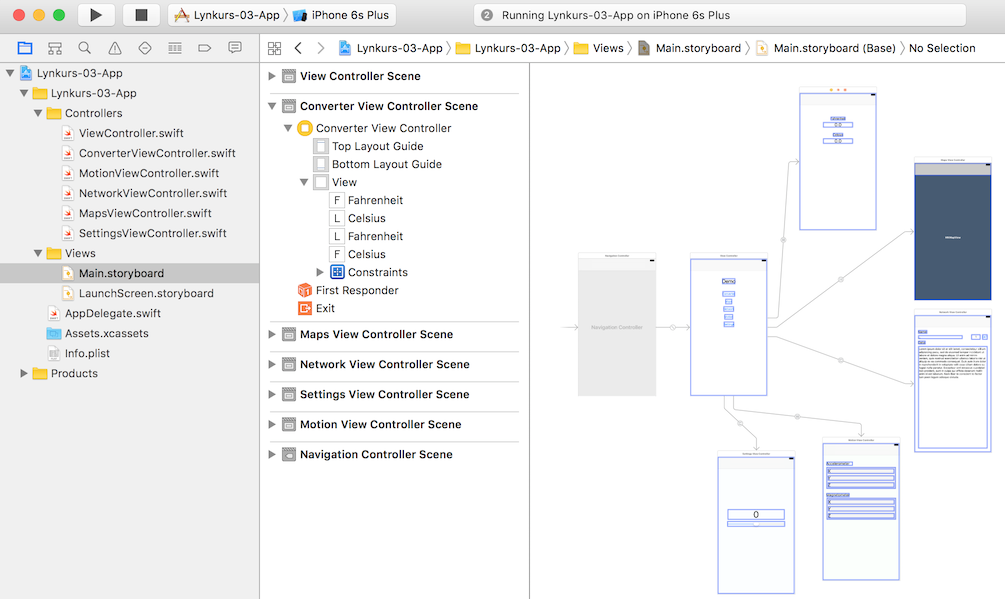
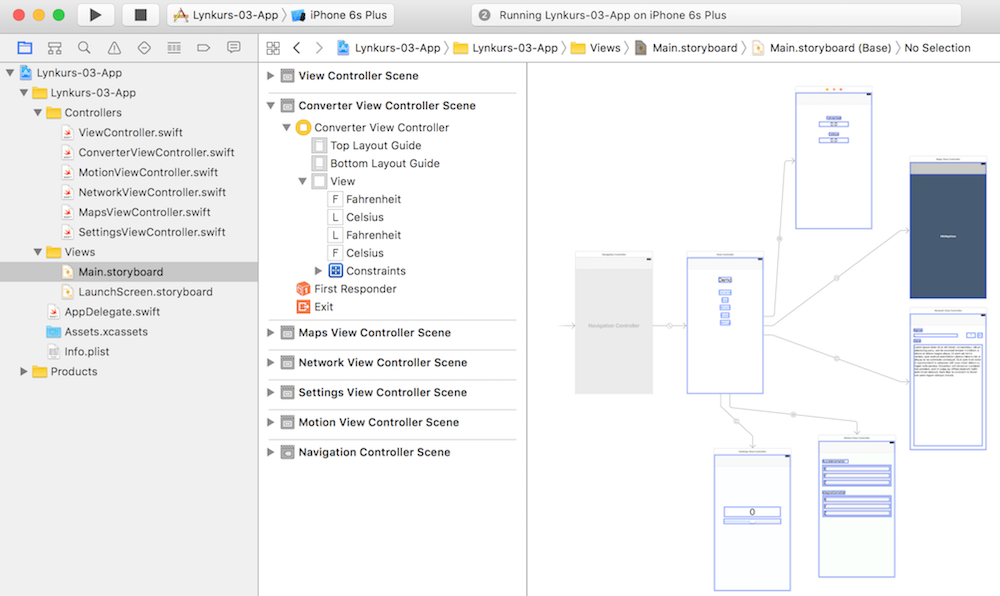
lagt til navigation Controller eksempel

diff --git a/README.md b/README.md
@@ -49,6 +49,8 @@ For at views skal kunne navigere tilbake til hoved viewet kan du velge å legge 
 
 Tips: Velg header hovedview i Main.storyboard, klikk på ```Editor -> Embed in.. -> Navigation Controller```.
 
+![NavigationControllerExample](https://github.com/bekk/iOS-Lynkurs/blob/master/Assets/NavigationControllerExample.png "NavigationControllerExample")
+
 #### Oppgave 1: ConverterViewController
 Implementer en View Controller hvor bruker kan konverte grader fra fahrenheit til celsius og vice versa.
 
